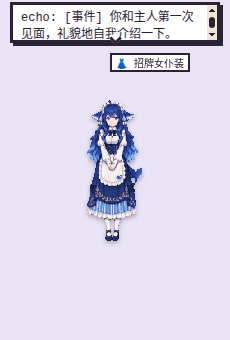
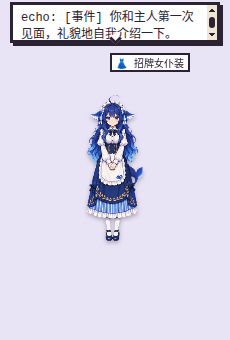
✨ feat(art): HD sprites — 332×452 frames, full colour, drawn smoothed
The 166×226 frames were magnified 2–3× on a Retina screen and read as blocks; the
GPT Image 2.5 sheets hold far more detail than we kept.

- slice_sheet.py --smooth: no palette, Lanczos in premultiplied alpha, soft edges; each
  frame stands on the floor of its cell (solid pixels only), so no frame floats.
- build_model_chan_pack.py --hd: WebP sheet, `pixelated: false`.
- Renderer: packs with `pixelated: false` are drawn with smoothing (canvas
  image-rendering auto); 旧版像素 packs stay crisp blocks.
- All five packs rebuilt from the same sheets; checker, preview, tests and docs updated.

Changed region(s): [[0.3652, 0.2941, 0.6087, 0.7059]]

diff --git a/e2e/run.js b/e2e/run.js
@@ -1258,9 +1258,10 @@ async function packs() {
     await page.waitForSelector('#pet-screen:not(.hidden)', { timeout: 30000 });
     await page.waitForFunction(() => !document.body.classList.contains('busy'), null, { timeout: 20000 });
 
-    await step(S, '格萝可 is an animated pixel sprite from grok-pixel; dragging plays the lifted action', async () => {
+    await step(S, '格萝可 is an animated HD sprite from grok-pixel, drawn smoothed; dragging plays the lifted action', async () => {
       assert.equal(await key(), 'grok-pixel/daily');
-      assert.equal(await page.locator('#pet-look canvas.sprite.pixelated').count(), 1);
+      assert.equal(await page.locator('#pet-look canvas.sprite:not(.pixelated)').count(), 1, 'HD packs are not drawn as blocks');
+      assert.deepEqual(await page.evaluate(() => { const c = document.querySelector('#pet-look canvas.sprite'); return [c.width, c.height, getComputedStyle(c).imageRendering]; }), [332, 452, 'auto']);
       const box = await page.locator('#char-wrap').boundingBox();
       await page.mouse.move(box.x + box.width / 2, box.y + box.height / 2);
       await page.mouse.down();
@@ -1277,8 +1278,9 @@ async function packs() {
       const base = path.join(ROOT, 'src', 'renderer', 'packs', 'grok-pixel');
       const m = JSON.parse(fs.readFileSync(path.join(base, 'pack.json'), 'utf8'));
       fs.mkdirSync(path.join(src, 'sheets'));
-      fs.copyFileSync(path.join(base, 'sheets', 'daily.png'), path.join(src, 'sheets', 'mine.png'));
-      fs.writeFileSync(path.join(src, 'pack.json'), JSON.stringify({ ...m, id: 'my-grok', name: '我的格萝可', author: 'tester', outfits: { daily: 'sheets/mine.png' } }));
+      const mine = `sheets/mine${path.extname(m.outfits.daily)}`;
+      fs.copyFileSync(path.join(base, m.outfits.daily), path.join(src, mine));
+      fs.writeFileSync(path.join(src, 'pack.json'), JSON.stringify({ ...m, id: 'my-grok', name: '我的格萝可', author: 'tester', outfits: { daily: mine } }));
       const r = await page.evaluate((d) => window.pet.debugImportPack(d), src);
       assert.equal(r.ok, true, JSON.stringify(r));
       assert.ok(fs.existsSync(path.join(data, 'packs', 'my-grok', 'pack.json')), 'copied into the user pack folder');

diff --git a/test/packs.test.js b/test/packs.test.js
@@ -45,7 +45,9 @@ test('the model-chan pixel packs are schema 2 and animate every state of the sha
     assert.deepEqual(Object.keys(px.actions).sort(), [...own].sort(), `${id} animates every state`);
     for (const st of own) assert.equal(resolveAction(st, (n) => !!px.actions[n]).exact, true, `${id}/${st}`);
     assert.deepEqual(resolveAction('walk', (n) => !!px.actions[n]), { name: 'idle', exact: false });
-    assert.deepEqual(px.frame, { width: 166, height: 226 }, 'high-resolution frames');
+    assert.deepEqual(px.frame, { width: 332, height: 452 }, 'HD frames');
+    assert.equal(px.pixelated, false, 'drawn smoothed, not as blocks');
+    assert.match(px.outfits.daily, /\.webp$/);
   }
 });
 
@@ -60,7 +62,8 @@ test('looks: the chosen pack, the character default, then its fallback pack; the
   assert.equal(P.chosenPack(packs, { grok: 'grok-clips' }, 'grok'), 'grok-pixel', 'a pack character has no clips');
   const l = P.resolveLook(packs, { packId: 'claude-pixel', fallbackId: 'claude-pixel', speciesId: 'claude', outfitId: 'daily' });
   assert.equal(l.kind, 'sprites');
-  assert.equal(l.url, 'pack://claude-pixel/sheets/daily.png');
+  assert.equal(l.url, 'pack://claude-pixel/sheets/daily.webp');
+  assert.equal(l.pixelated, false);
   assert.ok(l.actions.idle && l.actions.evolve && l.frame.width > 0);
   assert.equal(P.resolveLook(packs, { packId: 'dafeiyu-clips', fallbackId: 'dafeiyu-pixel', speciesId: 'dafeiyu', outfitId: 'daily' }), null, 'her clips');
   assert.equal(P.resolveLook(packs, { packId: 'dafeiyu-pixel', fallbackId: 'dafeiyu-pixel', speciesId: 'dafeiyu', outfitId: 'daily' }).packId, 'dafeiyu-pixel');

diff --git a/src/renderer/style.css b/src/renderer/style.css
@@ -2,6 +2,8 @@
 html, body { margin: 0; height: 100%; overflow: hidden; user-select: none; }
 body { font-family: "Courier New", "PingFang SC", "Microsoft YaHei", monospace; font-size: 13px; color: #2b2233; background: transparent; }
 canvas { image-rendering: pixelated; image-rendering: crisp-edges; display: block; }
+/* HD packs (pixelated: false) are drawn smoothed: the browser scales them with filtering, not as blocks */
+canvas.sprite:not(.pixelated) { image-rendering: auto; }
 .hidden { display: none !important; }
 .screen { height: 100%; padding: 14px; display: flex; flex-direction: column; align-items: center; }
 #onboarding, #hatching { background: #f4efe6; border: 4px solid #2b2233; box-shadow: inset 0 0 0 3px #d9cdb8; }

diff --git a/src/renderer/app.js b/src/renderer/app.js
@@ -155,7 +155,8 @@ function drawSprite(s, now) {
   if (s.cur !== want) { s.cur = want; s.start = now; }
   const i = Math.floor(((now - s.start) / 1000) * a.fps) % a.frames;
   const ctx = canvas.getContext('2d');
-  ctx.imageSmoothingEnabled = false;
+  ctx.imageSmoothingEnabled = !look.pixelated;
+  ctx.imageSmoothingQuality = 'high';
   ctx.clearRect(0, 0, canvas.width, canvas.height);
   const { width: w, height: h } = look.frame;
   ctx.drawImage(img, (a.col + i) * w, a.row * h, w, h, 0, 0, w, h);

diff --git a/scripts/art/slice_sheet.py b/scripts/art/slice_sheet.py
@@ -5,6 +5,8 @@
 #   --shared-box: crop every cell with one box for the whole sheet (the old behaviour). By default each action
 #   (two neighbouring cells, the model-chan layout) gets its own box and stands on the bottom of its cell, so a
 #   figure drawn lower in one cell does not leave the standing frames floating above the floor.
+#   --smooth: keep it an illustration instead of pixel art: full colour (no palette), Lanczos resampling in
+#   premultiplied alpha and soft anti-aliased edges. For the HD packs that are drawn smoothed, not as blocks.
 #   --max WxH: scale down further when needed so a frame fits a W x H cell (fit_cells.py then only centres it)
 #   --octree: build the palette with fast octree instead of median cut, for a near-white character (GPT):
 #   median cut spends every colour on her whites and lavenders and maps small props (watermelon, cookie)
@@ -19,7 +21,8 @@ from PIL import Image, ImageFilter
 
 octree = '--octree' in sys.argv
 shared_box = '--shared-box' in sys.argv
-argv = [x for x in sys.argv if x not in ('--octree', '--shared-box')]
+smooth = '--smooth' in sys.argv
+argv = [x for x in sys.argv if x not in ('--octree', '--shared-box', '--smooth')]
 green = False
 if '--key' in argv:
     i = argv.index('--key')
@@ -124,35 +127,40 @@ for (c, fg), box in zip(cells, cell_box):
     if green: px = np.dstack([px[..., 0], np.minimum(px[..., 1], np.maximum(px[..., 0], px[..., 2])), px[..., 2]])
     rgba = np.dstack([px, (fg * 255).astype(np.uint8)])
     f = Image.fromarray(rgba, 'RGBA').crop(box)
-    rgb = f.convert('RGB').resize((w, h), Image.BOX)
-    a = f.getchannel('A').resize((w, h), Image.BOX).point(lambda v: 255 if v >= 128 else 0)
-    # strand-thin hair breaks up into specks and pinholes at this size: a 3 x 3 majority smooths the outline
-    a = a.filter(ImageFilter.MedianFilter(3))
+    if smooth:
+        # premultiplied, so the (black, transparent) background never bleeds into the edge colours
+        g = f.convert('RGBa').resize((w, h), Image.LANCZOS).convert('RGBA')
+        rgb = g.convert('RGB')
+        a = g.getchannel('A').point(lambda v: 0 if v < 24 else v) # drop the faintest ringing, keep soft edges
+    else:
+        rgb = f.convert('RGB').resize((w, h), Image.BOX)
+        a = f.getchannel('A').resize((w, h), Image.BOX).point(lambda v: 255 if v >= 128 else 0)
+        # strand-thin hair breaks up into specks and pinholes at this size: a 3 x 3 majority smooths the outline
+        a = a.filter(ImageFilter.MedianFilter(3))
     # centred, standing on the bottom of the cell
     at = ((out_w - w) // 2, out_h - h)
     full_rgb, full_a = Image.new('RGB', (out_w, out_h)), Image.new('L', (out_w, out_h), 0)
     full_rgb.paste(rgb, at); full_a.paste(a, at)
     frames.append((full_rgb, full_a))
-# measure the floor on the final pixels: specks that only existed at full size (a faint mark under the feet)
-# no longer hold an action above the bottom of its cell
+# measure the floor on the final pixels, per frame: the generator does not draw both frames of an action at
+# the same height (大肥鱼's two idle frames were 25 px apart), and no action is meant to leave the ground (being
+# lifted is shown by the window). Solid pixels only, so a faint speck of soft edge (--smooth) is not the feet.
 if not shared_box:
-    for g in range(0, len(frames), 2):
-        bottoms = [a.getbbox()[3] for _, a in frames[g:g + 2] if a.getbbox()]
-        dy = out_h - max(bottoms) if bottoms else 0
+    for k, (rgb, a) in enumerate(frames):
+        box = a.point(lambda v: 255 if v >= 128 else 0).getbbox()
+        dy = out_h - box[3] if box else 0
         if dy > 0:
-            for k in range(g, min(g + 2, len(frames))):
-                rgb, a = frames[k]
-                r2, a2 = Image.new('RGB', (out_w, out_h)), Image.new('L', (out_w, out_h), 0)
-                r2.paste(rgb, (0, dy)); a2.paste(a, (0, dy))
-                frames[k] = (r2, a2)
+            r2, a2 = Image.new('RGB', (out_w, out_h)), Image.new('L', (out_w, out_h), 0)
+            r2.paste(rgb, (0, dy)); a2.paste(a, (0, dy))
+            frames[k] = (r2, a2)
 # one palette for the whole sheet keeps colours steady between frames (64: a 166 x 226 frame has room for
 # small accents such as gold trim and two-coloured eyes, which 40 colours merged away)
 strip = Image.new('RGB', (out_w * len(frames), out_h))
 for k, (rgb, _) in enumerate(frames): strip.paste(rgb, (k * out_w, 0))
-pal = strip.quantize(colors=64, method=Image.Quantize.FASTOCTREE if octree else Image.MEDIANCUT, dither=Image.Dither.NONE)
+pal = None if smooth else strip.quantize(colors=64, method=Image.Quantize.FASTOCTREE if octree else Image.MEDIANCUT, dither=Image.Dither.NONE)
 sheet = Image.new('RGBA', (out_w * cols, out_h * rows), (0, 0, 0, 0))
 for k, (rgb, a) in enumerate(frames):
-    q = rgb.quantize(palette=pal, dither=Image.Dither.NONE).convert('RGBA')
+    q = rgb.convert('RGBA') if smooth else rgb.quantize(palette=pal, dither=Image.Dither.NONE).convert('RGBA')
     q.putalpha(a)
     sheet.paste(q, ((k % cols) * out_w, (k // cols) * out_h))
 sheet.save(dst, optimize=True)

diff --git a/scripts/art/build_model_chan_pack.py b/scripts/art/build_model_chan_pack.py
@@ -1,4 +1,4 @@
-# Build a model-chan sprite pack (schema 2) from its fitted sheets (fit_cells.py output, 166 x 226 cells,
+# Build a model-chan sprite pack (schema 2) from its fitted sheets (fit_cells.py output, e.g. 332 x 452 cells,
 # 4 columns): the base sheet (8 states) on top of the extra sheet (8 more), one 664 x 1808 image, with every
 # action named after a state of the shared effects layer (src/core/fx.js STATES). Each sheet may come as
 # two 4 x 2 halves (one per generated image), stacked in order.
@@ -6,7 +6,10 @@
 import json, os, sys
 from PIL import Image
 
-*parts, cid, dst = sys.argv[1:]
+# --hd: the sheets came from slice_sheet.py --smooth: write a lossy WebP (lossless alpha) and mark the pack
+# as not pixelated, so the app draws it smoothed instead of as blocks
+hd = '--hd' in sys.argv
+*parts, cid, dst = [a for a in sys.argv[1:] if a != '--hd']
 here = os.path.dirname(os.path.abspath(__file__))
 c = json.load(open(os.path.join(here, '..', '..', 'src', 'characters', f'{cid}.json')))
 # order of the cells in the generated sheets (model_chan_prompts.py), two frames each
@@ -26,13 +29,17 @@ for im in ims:
     sheet.paste(im, (0, y))
     y += im.height
 os.makedirs(os.path.join(dst, 'sheets'), exist_ok=True)
-sheet.save(os.path.join(dst, 'sheets', 'daily.png'), optimize=True)
+sheet_name = 'daily.webp' if hd else 'daily.png'
+for old_sheet in ('daily.png', 'daily.webp'):
+    if old_sheet != sheet_name and os.path.exists(os.path.join(dst, 'sheets', old_sheet)): os.remove(os.path.join(dst, 'sheets', old_sheet))
+if hd: sheet.save(os.path.join(dst, 'sheets', sheet_name), 'WEBP', quality=92, method=6, alpha_quality=100)
+else: sheet.save(os.path.join(dst, 'sheets', sheet_name), optimize=True)
 manifest = {
-    'schema': 2, 'id': f'{cid}-pixel', 'name': f"{c['nameZh']} · 像素", 'version': '3.0.0',
+    'schema': 2, 'id': f'{cid}-pixel', 'name': f"{c['nameZh']} · 像素", 'version': '4.0.0' if hd else '3.0.0',
     'author': 'rdmclin2（gpt-image-2.5 生成，脚本像素化）；原设 ZipZipPipe，设定 lmy414', 'license': 'CC BY-NC-SA 4.0',
     'description': f"{c['title']}（同人，非 {c['vendor']} 官方）。16 位像素风，16 个动作（含大肥鱼全部 15 个状态和拎起）。",
-    'species': cid, 'kind': 'sprites', 'pixelated': True, 'frame': {'width': FW, 'height': FH},
-    'actions': actions, 'outfits': {'daily': 'sheets/daily.png'},
+    'species': cid, 'kind': 'sprites', 'pixelated': not hd, 'frame': {'width': FW, 'height': FH},
+    'actions': actions, 'outfits': {'daily': f'sheets/{sheet_name}'},
 }
 # a description written by hand in an existing pack.json is kept
 old = os.path.join(dst, 'pack.json')

diff --git a/scripts/art/check_model_chan.py b/scripts/art/check_model_chan.py
@@ -1,5 +1,5 @@
 # Check the model-chan pixel packs (src/renderer/packs/*-pixel, schema 2) and print one line per action.
-# Passes when every sheet is an RGBA PNG of 4 x 8 cells of 166 x 226, every state of the shared effects
+# Passes when every sheet is an RGBA PNG or WebP of 4 x 8 cells of 332 x 452 (the HD packs), every state of the shared effects
 # layer (16) has an action, and every frame of every action has a visible figure.
 # usage: check_model_chan.py [repo root]
 import json, os, sys
@@ -7,14 +7,14 @@ from PIL import Image
 
 root = sys.argv[1] if len(sys.argv) > 1 else os.path.join(os.path.dirname(os.path.abspath(__file__)), '..', '..')
 STATES = ['idle', 'look', 'happy', 'pat', 'sad', 'hungry', 'sleep', 'eat_rice', 'eat_cookie', 'eat_fruit', 'think', 'talk', 'play', 'hatch', 'evolve', 'lifted']
-FW, FH = 166, 226
+FW, FH = 332, 452
 packs_dir = os.path.join(root, 'src/renderer/packs')
 bad = 0
 for pid in sorted(p for p in os.listdir(packs_dir) if p.endswith('-pixel')):
     d = os.path.join(packs_dir, pid)
     pack = json.load(open(os.path.join(d, 'pack.json')))
     im = Image.open(os.path.join(d, pack['outfits']['daily']))
-    ok = pack['schema'] == 2 and im.format == 'PNG' and im.mode == 'RGBA' and im.size == (FW * 4, FH * 8) and (pack['frame']['width'], pack['frame']['height']) == (FW, FH)
+    ok = pack['schema'] == 2 and im.format in ('PNG', 'WEBP') and im.mode == 'RGBA' and im.size == (FW * 4, FH * 8) and (pack['frame']['width'], pack['frame']['height']) == (FW, FH)
     bad += not ok
     print(f"{pid}: schema {pack['schema']} {im.format} {im.mode} {im.size} {'OK' if ok else 'MISMATCH'}")
     a = im.getchannel('A')
@@ -28,7 +28,7 @@ for pid in sorted(p for p in os.listdir(packs_dir) if p.endswith('-pixel')):
         for k in range(v['frames']):
             x, y = (v['col'] + k) * FW, v['row'] * FH
             counts.append(sum(1 for p in a.crop((x, y, x + FW, y + FH)).getdata() if p))
-        good = all(c >= 1600 for c in counts)
+        good = all(c >= 6400 for c in counts)
         bad += not good
         print(f"  {name:<11} row {v['row']} col {v['col']} x{v['frames']} @{v['fps']}fps  opaque px {counts} {'OK' if good else 'EMPTY'}")
 print('RESULT', 'PASS' if not bad else f'FAIL ({bad})')

diff --git a/scripts/art/model_chan_preview.py b/scripts/art/model_chan_preview.py
@@ -13,8 +13,8 @@ STATES = chars[0]['art']['states'] + ['lifted']
 rows = [(c, 'video') for c in chars if c['art']['kind'] == 'video'] + [(c, 'pixel') for c in chars if c['art'].get('pack')]
 FONT = '/usr/share/fonts/opentype/noto/NotoSansCJK-Regular.ttc'
 font = lambda size: ImageFont.truetype(FONT, size) if os.path.exists(FONT) else ImageFont.load_default()
-SCALE, FW, FH = 1, 166, 226
-CW, CH = FW * SCALE * 2 + 12, FH * SCALE + 12  # a column holds both frames side by side
+SCALE, FW, FH = 0.5, 332, 452  # HD frames shown at half size
+CW, CH = int(FW * SCALE * 2 + 12), int(FH * SCALE + 12)  # a column holds both frames side by side
 LEFT, TOP, BG = 260, 120, (44, 44, 52, 255)
 
 def video_frame(path):
@@ -28,7 +28,7 @@ def video_frame(path):
 
 img = Image.new('RGBA', (LEFT + CW * len(STATES), TOP + CH * len(rows) + 20), BG)
 d = ImageDraw.Draw(img)
-d.text((20, 20), '模型娘首批角色 · 全部动画状态预览（每格：该状态的帧；像素角色为 2 帧，166×226，原尺寸）', fill='white', font=font(30))
+d.text((20, 20), '模型娘首批角色 · 全部动画状态预览（每格：该状态的帧；像素角色为 2 帧，332×452，缩小一半）', fill='white', font=font(30))
 for i, s in enumerate(STATES):
     d.text((LEFT + i * CW + 8, TOP - 40), s, fill=(220, 220, 230), font=font(22))
 for r, (c, kind) in enumerate(rows):
@@ -51,6 +51,6 @@ for r, (c, kind) in enumerate(rows):
         v = pack['actions'][s]
         for k in range(v['frames']):
             fr = sheet.crop(((v['col'] + k) * FW, v['row'] * FH, (v['col'] + k + 1) * FW, (v['row'] + 1) * FH))
-            img.alpha_composite(fr.resize((FW * SCALE, FH * SCALE), Image.NEAREST), (LEFT + i * CW + 6 + k * FW * SCALE, y + 6))
+            img.alpha_composite(fr.resize((int(FW * SCALE), int(FH * SCALE)), Image.LANCZOS), (LEFT + i * CW + 6 + k * int(FW * SCALE), y + 6))
 img.convert('RGB').save(out, optimize=True)
 print(out, img.size)

diff --git a/scripts/art/model_chan_prompts.py b/scripts/art/model_chan_prompts.py
@@ -1,6 +1,6 @@
 # Prompts for the model-chan (模型娘) pixel sheets (scripts/art/model-chan.sh). Prints [{name, prompt}] as JSON.
 # --halves: each sheet as two 4 x 2 halves (<id>_<sheet>_a = rows 1-2, _b = rows 3-4), so a figure gets about
-#   twice the pixels of the 1024 x 1536 canvas; this is how the 166 x 226 packs were made.
+#   twice the pixels of the 1024 x 1536 canvas; this is how the 166 x 226 and the HD 332 x 452 packs were made.
 # Two generated sheets per character, both 4 columns x 4 rows = 8 actions x 2 frames:
 #   <id>_base  -> the 8 actions every sprite pack has (same order as pixel_prompts.py / build_pixel_pack.py)
 #   <id>_extra -> the 8 states only DeepSeek's video clips had (look, sad, hungry, eat_cookie, eat_fruit, play, hatch, evolve)

diff --git a/scripts/art/fit_cells.py b/scripts/art/fit_cells.py
@@ -1,5 +1,5 @@
 # Fit a sliced 4 x 4 (or 4 x 2, --rows 2) sheet (slice_sheet.py output) into fixed cells, so every sheet of
-# every character uses the frame size of the built-in pixel packs (166 x 226): figure centred, standing on the cell's bottom, scaled down
+# every character uses the frame size given (the built-in HD packs use 332 x 452; default 166 x 226): figure centred, standing on the cell's bottom, scaled down
 # (nearest neighbour, keeps hard pixels) only when a frame is larger than the cell.
 # usage: fit_cells.py <sliced.png> <out.png> [cell_w cell_h] [--keep-violet] [--rows N] [--key green]
 #   --key green: the sheet was keyed on green (slice_sheet.py --key green): clean a green rim instead

diff --git a/docs/characters.md b/docs/characters.md
@@ -38,7 +38,7 @@
 | 形象设定 | 鲸鱼娘女仆：深蓝渐变浅蓝的及腿长发、环状呆毛、蓝色大眼、带蓝色小蝴蝶结的鲸鱼鳍耳、身后分叉的鲸鱼尾鳍。懒洋洋、嘴硬、爱吃白饭，叫主人“鱼片”，口头禅“咕噜~”。像素包和其他四位一样是成人比例；社区原版的 Q 版（约 3 头身）只保留在可选的原版动画里。只有全年龄内容 |
 | 主题色 | `#2C4A8A` 深海蓝（色板 `#2C4A8A` `#FFFFFF` `#6FA8E8` `#E8D6A0`） |
 | 服饰 | 招牌女仆装：白色泡泡袖衬衫（遮肩）、蓝宝石小领结、金扣深藏青束腰、右下角绣小鲸鱼的白围裙、深藏青外层 + 蓝白竖条纹中层 + 白荷叶边的及踝长裙、白色连裤袜、深藏青玛丽珍鞋。原先的 8 套服饰立绘（针织围巾套装、休闲卫衣等）和她的形象不搭，已经移除；旧存档里穿着这些服饰的会换回招牌女仆装 |
-| 美术 | 21 段透明 webm（`src/renderer/assets/dafeiyu/`：15 个基础状态 + 被拎起 `lifted`、走路 `walk`，以及点击回应变体 `pat_shy`、`pat_pout`、`pat_tickle`、`happy_jump`），在外观里选「大肥鱼 · 原版动画」时播放；默认是像素包 `dafeiyu-pixel`（166×226，16 个动作 × 2 帧）；外观里还可以选 v0.7.0 的「旧版像素」`dafeiyu-classic` |
+| 美术 | 21 段透明 webm（`src/renderer/assets/dafeiyu/`：15 个基础状态 + 被拎起 `lifted`、走路 `walk`，以及点击回应变体 `pat_shy`、`pat_pout`、`pat_tickle`、`happy_jump`），在外观里选「大肥鱼 · 原版动画」时播放；默认是像素包 `dafeiyu-pixel`（高清，每帧 332×452，16 个动作 × 2 帧）；外观里还可以选 v0.7.0 的「旧版像素」`dafeiyu-classic` |
 | 梗图 / 朗读 | 9 张梗图（dsh-pet）；朗读音调 1.35、语速 1.0 |
 | 素材来源 / 生成方式 | 动画来自 [PC2005-cloud/dsh-pet](https://github.com/PC2005-cloud/dsh-pet)；形象是 DeepSeek 吉祥物的社区二创：原型「溟月」B站 @上善无形，女仆鲸鱼娘设计 B站 @ZipZipPipe，设定参考 ai-chan-sheets `03_DeepSeek娘_鲸鱼娘`。像素版由 **GPT Image 2.5**（`gpt-image-2.5-sunburst`，经 LobeHub）按文字提示词重画，没有逐帧描摹视频 |
 | 许可 | 动画：dsh-pet 素材可开源使用、**禁止商用**；形象 **CC BY-NC-SA 4.0**（`src/renderer/assets/dafeiyu/NOTICE.md`）。像素包同样 **CC BY-NC-SA 4.0** |
@@ -57,7 +57,7 @@
 | 形象设定 | 成年比例：橘色过膝长发、发梢螺旋卷，菊花发饰配黑缎蝴蝶结，琥珀金垂眼。安静、温和、认真，爱读书和写东西，不确定时直说。口头禅“嗯，让我想想。” |
 | 主题色 | `#C4622D` 陶土橘（色板 `#C4622D` `#F4EAD8` `#1E1A18` `#C9A24A`） |
 | 服饰 | 橘白哥特长裙：奶油白高领衬衫、短披肩和橘红长裙 |
-| 美术 | 像素包 `claude-pixel`：schema 2 精灵图 664×1808（每帧 166×226），16 个动作 × 2 帧 |
+| 美术 | 像素包 `claude-pixel`：schema 2 高清精灵图 1328×3616 WebP（每帧 332×452，平滑绘制），16 个动作 × 2 帧 |
 | 梗图 / 朗读 | 4 张梗图；朗读音调 1.0、语速 0.92 |
 | 素材来源 / 生成方式 | 身份锚点（发型、配色、服饰、标志物）取自 [lmy414/ai-chan-sheets](https://github.com/lmy414/ai-chan-sheets) `设定图/11_Claude娘_Anthropic`；原设 ZipZipPipe《AI娘化》p02（[Pixiv 148186519](https://www.pixiv.net/artworks/148186519)，用户素材 [file_5SAeAA60gpeZ](https://app.lobehub.com/f/file_5SAeAA60gpeZ)）。精灵图由 **GPT Image 2.5**（`gpt-image-2.5-sunburst`）按文字提示词生成，`scripts/art/` 像素化 |
 | 许可 | **CC BY-NC-SA 4.0**：署名 ZipZipPipe（原设）、lmy414（设定）、rdmclin2（像素化），禁止商用，改编须同协议 |
@@ -76,7 +76,7 @@
 | 形象设定 | 成年比例：香槟金超长双马尾、黑金小尖冠、蓝宝石眼、精灵尖耳和小尖牙。机灵爱吐槽的友善夜行吸血鬼，嘴上不饶人但心软。口头禅“哈！有意思。” |
 | 主题色 | `#8E1F33` 酒红（色板 `#8E1F33` `#16141A` `#C9A24A` `#F1E2B8`） |
 | 服饰 | 黑金哥特礼服：高领黑色礼服、酒红内衬立领、小尖冠、不透明黑色连裤袜 |
-| 美术 | 像素包 `grok-pixel`：664×1808（每帧 166×226），16 个动作 × 2 帧 |
+| 美术 | 像素包 `grok-pixel`：高清精灵图 1328×3616 WebP（每帧 332×452，平滑绘制），16 个动作 × 2 帧 |
 | 梗图 / 朗读 | 4 张梗图；朗读音调 1.15、语速 1.12 |
 | 素材来源 / 生成方式 | 设定取自 ai-chan-sheets `设定图/09_Grok娘_xAI`，原设 ZipZipPipe《AI娘化》p07。把原设的露肩礼服、透肉连裤袜和腿环改成高领礼服和不透明连裤袜，不画 X 战斧和 X 字样。**GPT Image 2.5** 生成后像素化 |
 | 许可 | **CC BY-NC-SA 4.0**，署名同上 |
@@ -95,7 +95,7 @@
 | 形象设定 | 成年比例：薰衣草紫过膝长发、卷曲呆毛，紫外粉内的猫耳和蓬松猫尾，异色瞳（品红 / 金），深色发带配四角星发饰。活泼好奇、反应快。口头禅“让我看看！” |
 | 主题色 | `#7B5CD6` 薰衣草紫（色板 `#7B5CD6` `#B9A3F0` `#1E1F4B` `#FFFFFF`） |
 | 服饰 | 星纹宽袖外披：深藏青高领上衣、白底宽袖外披、四角星吊坠飘带和白色荷叶边长裙 |
-| 美术 | 像素包 `gemini-pixel`：664×1808（每帧 166×226），16 个动作 × 2 帧 |
+| 美术 | 像素包 `gemini-pixel`：高清精灵图 1328×3616 WebP（每帧 332×452，平滑绘制），16 个动作 × 2 帧 |
 | 梗图 / 朗读 | 4 张梗图；朗读音调 1.25、语速 1.08 |
 | 素材来源 / 生成方式 | 设定取自 ai-chan-sheets `设定图/10_Gemini娘`，原设 ZipZipPipe《AI娘化》p04。把原设的露脐上衣、短裤和腿环改成高领上衣、及踝长裙和不透明白色连裤袜；四角星只作纹样，不画 Google 标志或文字。**GPT Image 2.5** 生成后像素化（`fit_cells.py --keep-violet` 保住紫色发色） |
 | 许可 | **CC BY-NC-SA 4.0**，署名同上 |
@@ -114,7 +114,7 @@
 | 形象设定 | 成年比例：纯白及踝超长波浪发、白色环纹龙角、精灵尖耳配淡紫水晶耳坠、淡紫垂眼，白玫瑰绳结发饰；收拢的淡紫小龙翼和白色龙尾。温柔耐心、有问必答，爱把事情列成要点，会拿“重新生成”和“知识截止日期”自嘲。口头禅“好的！很乐意帮忙～” |
 | 主题色 | `#8E7FC8` 淡薰衣草（色板 `#8E7FC8` `#FFFFFF` `#D9D2EE` `#B8BCC6`） |
 | 服饰 | 白玫瑰立领长裙：白色中式立领长袖长裙、宽大荷叶边水袖、银链淡紫水晶腰饰、白玫瑰绳结和不透明的波浪荷叶边长罩衣 |
-| 美术 | 像素包 `gpt-pixel`：664×1808（每帧 166×226），16 个动作 × 2 帧 |
+| 美术 | 像素包 `gpt-pixel`：高清精灵图 1328×3616 WebP（每帧 332×452，平滑绘制），16 个动作 × 2 帧 |
 | 梗图 / 朗读 | 4 张梗图（很乐意帮忙！、以下是要点、让我重新生成、知识截止到……）；朗读音调 1.1、语速 1.0 |
 | 素材来源 / 生成方式 | 设定取自 ai-chan-sheets `设定图/02_GPT娘_白龙娘`，原设 ZipZipPipe《AI娘化》p03。把原设的露肩、高开衩、腿环和半透明薄纱罩衣改成长袖、闭合的及踝长裙和不透明长罩衣，龙翼画小并收拢；白玫瑰绳结只作饰物，不画 OpenAI 标志或文字。**GPT Image 2.5** 生成后像素化（`slice_sheet.py --octree` 保住白色角色的配色） |
 | 许可 | **CC BY-NC-SA 4.0**，署名同上 |
@@ -125,7 +125,7 @@
 
 ## 三、素材生成方式与许可总述
 
-- **生成方式**：除大肥鱼的原版视频外，所有模型娘美术都是原创生成，不是改绘。管线：`scripts/art/model_chan_prompts.py --halves` 出每角色 4 条英文提示词 → `lh gen image -m gpt-image-2.5-sunburst -p lobehub "<提示词>"`（GPT Image 2.5，经 LobeHub）每角色 4 张 4×2 宫格（透明或品红底） → `scripts/art/slice_sheet.py` 抠图、像素化 → `scripts/art/fit_cells.py` 放进 166×226 格子 → `scripts/art/build_model_chan_pack.py` 组包 → `scripts/art/check_model_chan.py` 校验。参数见 [art/model-chan/README.md](../art/model-chan/README.md)。
+- **生成方式**：除大肥鱼的原版视频外，所有模型娘美术都是原创生成，不是改绘。管线：`scripts/art/model_chan_prompts.py --halves` 出每角色 4 条英文提示词 → `lh gen image -m gpt-image-2.5-sunburst -p lobehub "<提示词>"`（GPT Image 2.5，经 LobeHub）每角色 4 张 4×2 宫格（透明或品红底） → `scripts/art/slice_sheet.py` 抠图、像素化 → `scripts/art/fit_cells.py` 放进 332×452 格子（高清、全彩，`--smooth` / `--hd`） → `scripts/art/build_model_chan_pack.py` 组包 → `scripts/art/check_model_chan.py` 校验。参数见 [art/model-chan/README.md](../art/model-chan/README.md)。
 - **参考素材**：ai-chan-sheets 和 ZipZipPipe 原设只取文字层面的身份锚点（发型、配色、服饰、标志物），没有复制或描摹任何图片，也没有使用 ai-chan-sheets `参考原图/` 下的未授权原图。
 - **许可**：所有模型娘美术以 **CC BY-NC-SA 4.0** 发布（每个 `pack.json` 的 `license` 字段相同）；大肥鱼动画另受 dsh-pet“禁止商用”约束。应用内 ⋯ 菜单 →“素材署名”显示每位角色 `credits` 字段里的署名。代码按 MIT 授权；含上述美术的构建只能非商业使用。
 

diff --git a/docs/usage.md b/docs/usage.md
@@ -70,7 +70,7 @@ LH_BIN="$PWD/test/fixtures/fake-lh.js" FAKE_LH_DIR=/tmp/fake-lh PIXELPET_DATA_DI
 
 - **首次**：在“选择你的模型娘”界面点角色卡，再点“唤醒”。
 - **之后切换**：悬停宠物 → ⋯ → **切换角色**，点想要的角色旁边的 **切换**（当前角色显示“✓ 当前”）。LobeHub agent、聊天记录和好感度保留，她的人设在下一句话前更新；身上的服饰新角色没有时换回日常服。切换后播放唤醒演出。
-- **换画风**：高级设置 → **外观（角色包）**。每位角色默认用新的像素包（166×226），也可以换成「旧版像素」（v0.7.0 及以前那套 83×113、更 Q 的像素图）；大肥鱼还能换成原版动画（dsh-pet 透明视频）。随时可以换回来；也可以“导入角色包…”（文件夹或 `.zip`，格式见 [pet-packs.md](pet-packs.md)），“打开角色包文件夹”查看已导入的包。
+- **换画风**：高级设置 → **外观（角色包）**。每位角色默认用新的高清像素包（每帧 332×452，平滑绘制），也可以换成「旧版像素」（v0.7.0 及以前那套 83×113、更 Q 的像素图）；大肥鱼还能换成原版动画（dsh-pet 透明视频）。随时可以换回来；也可以“导入角色包…”（文件夹或 `.zip`，格式见 [pet-packs.md](pet-packs.md)），“打开角色包文件夹”查看已导入的包。
 - **换模型**：⋯ → **切换角色** → **模型**（和角色放在一起，因为模型跟着角色走）。下拉框里只有当前角色自家厂商的模型：大肥鱼 DeepSeek、克洛蒂 Claude、格萝可 Grok、杰米 Gemini、吉皮缇 GPT（含 o 系列）。列表来自你在 LobeHub 里启用的模型：LobeHub 托管的排在前面；如果你还启用了该厂商自己的服务商（填了自己的 Key），那些模型也会列出，标“（自己的 … Key）”。只能出图的模型（如 Nano Banana）不列。没选过时用角色的默认模型（标“默认”）：大肥鱼 DeepSeek V4.1 Flash、克洛蒂 Claude Sonnet 5.5、格萝可 Grok 4.7、杰米 Gemini 3.8 Flash、吉皮缇 GPT-6 Luna；默认模型没启用时用列表第一个。选好后立即改 agent 的模型；换角色后，下一句话起换成新角色的模型，每位角色各自记住你的选择（存在 `settings.json` 的 `models`）。模型列表 10 分钟内复用，点“刷新”立即重读；`lh` 读不到列表（版本太旧或离线）时她继续用原来的模型。
 - **请别的模型娘来串门**：高级设置 → **同屏伙伴**，见下面的 E24。
 
@@ -152,7 +152,7 @@ npm run dist:win       # Windows x64 安装包 + zip
 
 1. **准备美术（角色包）**：新建 `src/renderer/packs/kimi-pixel/`，内含 `pack.json` 和 `sheets/daily.png`。
    - 最快的做法是复制一个现有像素包，改 `pack.json` 的 `id`（`kimi-pixel`）、`name`、`author`、`license`、`description`，并把 `species` 改成 `kimi`。
-   - 自己画：按 [pet-packs.md](pet-packs.md) 的 schema 2，精灵图 664×1808（4 列 × 8 行，每帧 166×226），动作名就是状态名，只有 `idle` 必填，缺的状态按回落链降级。本仓库用 GPT Image 2.5 生成：`python3 scripts/art/model_chan_prompts.py --halves` 出提示词 → `lh gen image -m gpt-image-2.5-sunburst -p lobehub "<提示词>"` → `scripts/art/slice_sheet.py` → `scripts/art/fit_cells.py`（紫粉色系角色改用绿底生成，两个脚本都加 `--key green`；白色系角色在 `slice_sheet.py` 加 `--octree`，否则西瓜、饼干和肤色会被并进品红色调后删掉）→ `scripts/art/build_model_chan_pack.py` → `scripts/art/check_model_chan.py` 校验（参数见 [art/model-chan/README.md](../art/model-chan/README.md)）。
+   - 自己画：按 [pet-packs.md](pet-packs.md) 的 schema 2，精灵图 1328×3616（4 列 × 8 行，每帧 332×452；内置包是 WebP、`pixelated: false`，按平滑方式绘制），动作名就是状态名，只有 `idle` 必填，缺的状态按回落链降级。本仓库用 GPT Image 2.5 生成：`python3 scripts/art/model_chan_prompts.py --halves` 出提示词 → `lh gen image -m gpt-image-2.5-sunburst -p lobehub "<提示词>"` → `scripts/art/slice_sheet.py` → `scripts/art/fit_cells.py`（紫粉色系角色改用绿底生成，两个脚本都加 `--key green`；白色系角色在 `slice_sheet.py` 加 `--octree`，否则西瓜、饼干和肤色会被并进品红色调后删掉）→ `scripts/art/build_model_chan_pack.py` → `scripts/art/check_model_chan.py` 校验（参数见 [art/model-chan/README.md](../art/model-chan/README.md)）。
 2. **写数据文件** `src/characters/kimi.json`，照着 `src/characters/claude.json` 填：
 
    ```jsonc
